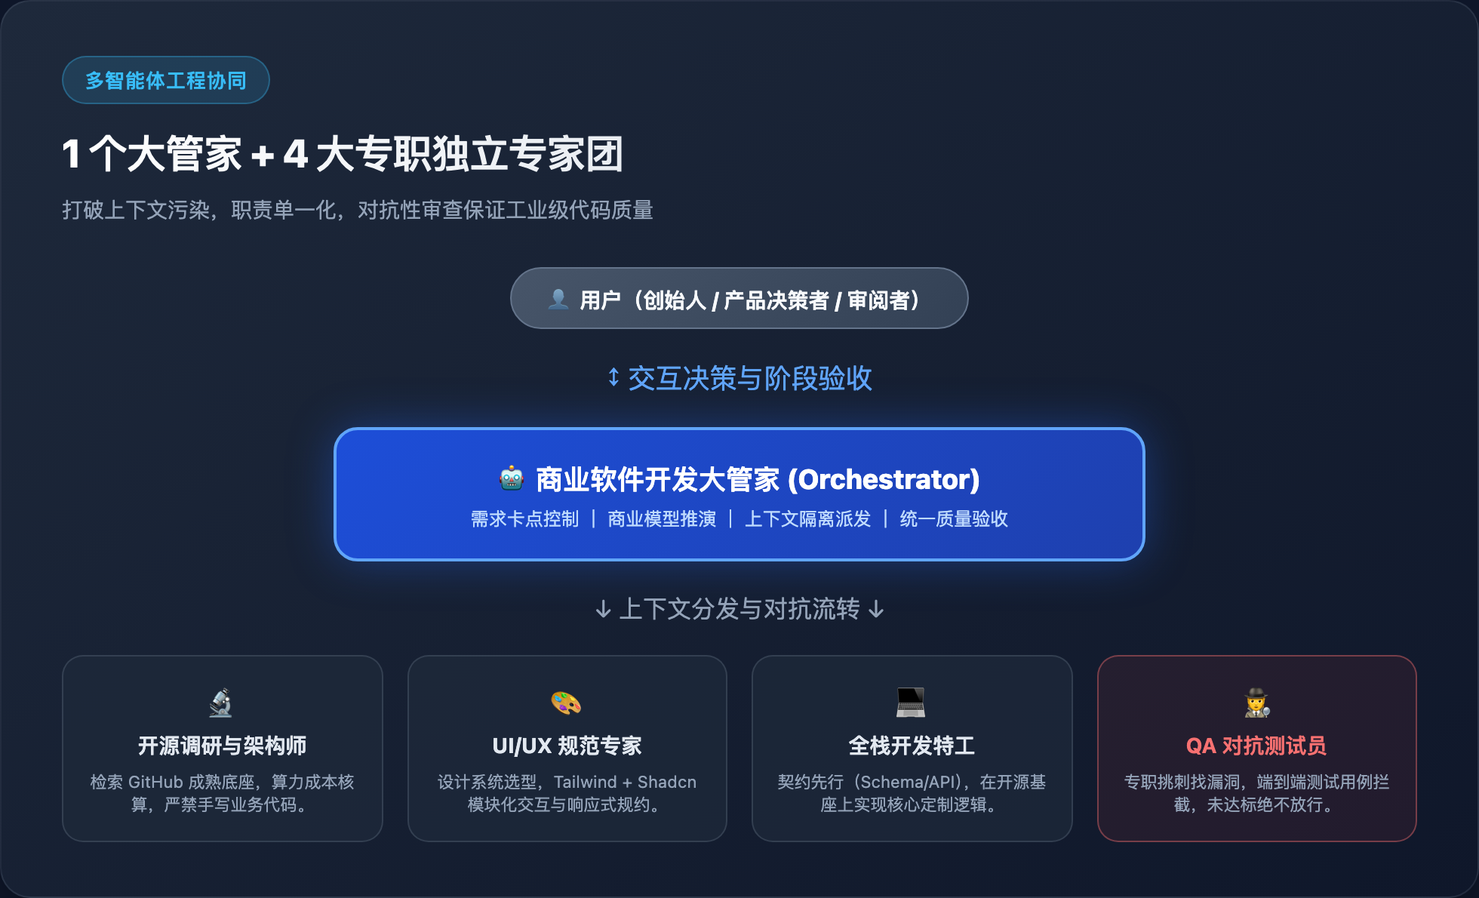
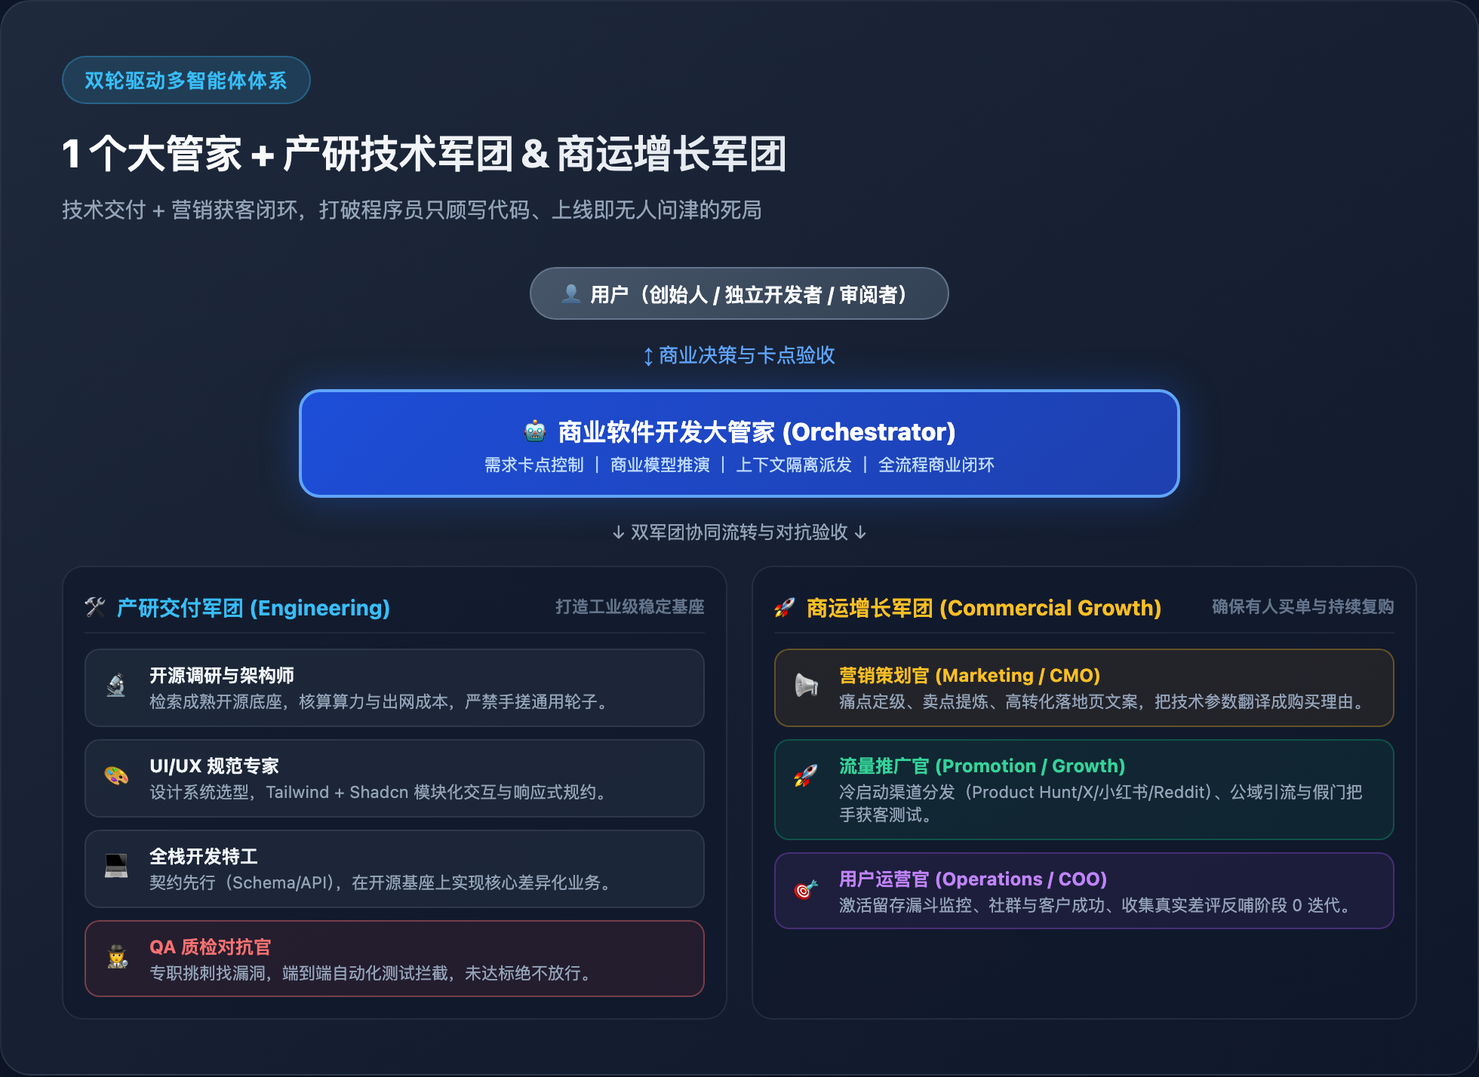
feat: incorporate marketing, promotion, and operations commercial growth engine into multi-agent architecture and WeChat article

Changed region(s): [[0.0311, 0.0311, 0.9337, 0.9017], [0.0622, 0.7773, 0.4668, 0.9328], [0.0, 0.995, 0.9959, 1.0]]

diff --git a/scripts/generate_article_diagrams.py b/scripts/generate_article_diagrams.py
@@ -295,14 +295,14 @@ DIAGRAMS = {
     display: flex;
     flex-direction: column;
     align-items: center;
-    gap: 20px;
+    gap: 14px;
   }}
   .user-node {{
     background: linear-gradient(135deg, #475569 0%, #334155 100%);
     border: 1px solid #64748b;
     border-radius: 9999px;
-    padding: 8px 24px;
-    font-size: 14px;
+    padding: 6px 20px;
+    font-size: 13px;
     font-weight: 700;
     color: #f8fafc;
     display: flex;
@@ -312,71 +312,148 @@ DIAGRAMS = {
   .orchestrator-node {{
     background: linear-gradient(135deg, #1d4ed8 0%, #1e40af 100%);
     border: 2px solid #60a5fa;
-    border-radius: 16px;
-    padding: 18px 36px;
+    border-radius: 14px;
+    padding: 12px 28px;
     text-align: center;
-    box-shadow: 0 0 30px rgba(37, 99, 235, 0.4);
-    width: 60%;
+    box-shadow: 0 0 25px rgba(37, 99, 235, 0.35);
+    width: 65%;
   }}
-  .subagents-grid {{
+  .dual-engine-grid {{
     display: grid;
-    grid-template-columns: repeat(4, 1fr);
+    grid-template-columns: 1fr 1fr;
     gap: 16px;
     width: 100%;
   }}
-  .subagent-card {{
-    background: rgba(30, 41, 59, 0.7);
-    border: 1px solid rgba(148, 163, 184, 0.2);
+  .engine-column {{
+    background: rgba(15, 23, 42, 0.6);
+    border: 1px solid rgba(148, 163, 184, 0.15);
     border-radius: 14px;
-    padding: 16px 14px;
-    text-align: center;
+    padding: 14px;
   }}
-  .subagent-role {{
+  .engine-header {{
     font-size: 14px;
     font-weight: 700;
-    color: #e2e8f0;
-    margin-bottom: 6px;
+    margin-bottom: 10px;
+    display: flex;
+    align-items: center;
+    justify-content: space-between;
+    padding-bottom: 6px;
+    border-bottom: 1px solid rgba(148, 163, 184, 0.1);
   }}
-  .subagent-task {{
+  .engine-header.tech {{ color: #38bdf8; }}
+  .engine-header.biz {{ color: #fbbf24; }}
+  .cards-list {{
+    display: flex;
+    flex-direction: column;
+    gap: 8px;
+  }}
+  .agent-card {{
+    background: rgba(30, 41, 59, 0.8);
+    border: 1px solid rgba(148, 163, 184, 0.15);
+    border-radius: 10px;
+    padding: 8px 12px;
+    display: flex;
+    align-items: flex-start;
+    gap: 10px;
+  }}
+  .agent-icon {{
+    font-size: 16px;
+    margin-top: 1px;
+  }}
+  .agent-name {{
+    font-size: 12px;
+    font-weight: 700;
+    color: #f1f5f9;
+    margin-bottom: 2px;
+  }}
+  .agent-task {{
     font-size: 11px;
     color: #94a3b8;
-    line-height: 1.4;
+    line-height: 1.35;
   }}
 </style>
 </head>
 <body>
   <div class="card-container">
-    <div class="header-badge">多智能体工程协同</div>
-    <div class="main-title">1 个大管家 + 4 大专职独立专家团</div>
-    <div class="subtitle">打破上下文污染，职责单一化，对抗性审查保证工业级代码质量</div>
+    <div class="header-badge">双轮驱动多智能体体系</div>
+    <div class="main-title">1 个大管家 + 产研技术军团 & 商运增长军团</div>
+    <div class="subtitle">技术交付 + 营销获客闭环，打破程序员只顾写代码、上线即无人问津的死局</div>
     <div class="topo-wrapper">
-      <div class="user-node">👤 用户（创始人 / 产品决策者 / 审阅者）</div>
-      <div style="color: #60a5fa; font-size: 18px;">↕ 交互决策与阶段验收</div>
+      <div class="user-node">👤 用户（创始人 / 独立开发者 / 审阅者）</div>
+      <div style="color: #60a5fa; font-size: 13px;">↕ 商业决策与卡点验收</div>
       <div class="orchestrator-node">
-        <div style="font-size: 18px; font-weight: 800; color: #fff;">🤖 商业软件开发大管家 (Orchestrator)</div>
-        <div style="font-size: 12px; color: #bfdbfe; margin-top: 4px;">需求卡点控制 ｜ 商业模型推演 ｜ 上下文隔离派发 ｜ 统一质量验收</div>
+        <div style="font-size: 16px; font-weight: 800; color: #fff;">🤖 商业软件开发大管家 (Orchestrator)</div>
+        <div style="font-size: 11px; color: #bfdbfe; margin-top: 2px;">需求卡点控制 ｜ 商业模型推演 ｜ 上下文隔离派发 ｜ 全流程商业闭环</div>
       </div>
-      <div style="color: #94a3b8; font-size: 16px;">↓ 上下文分发与对抗流转 ↓</div>
-      <div class="subagents-grid">
-        <div class="subagent-card">
-          <div style="font-size: 20px; margin-bottom: 4px;">🔬</div>
-          <div class="subagent-role">开源调研与架构师</div>
-          <div class="subagent-task">检索 GitHub 成熟底座，算力成本核算，严禁手写业务代码。</div>
+      <div style="color: #94a3b8; font-size: 12px;">↓ 双军团协同流转与对抗验收 ↓</div>
+      <div class="dual-engine-grid">
+        <!-- 产研交付军团 -->
+        <div class="engine-column">
+          <div class="engine-header tech">
+            <span>🛠 产研交付军团 (Engineering)</span>
+            <span style="font-size: 11px; color: #64748b;">打造工业级稳定基座</span>
+          </div>
+          <div class="cards-list">
+            <div class="agent-card">
+              <span class="agent-icon">🔬</span>
+              <div>
+                <div class="agent-name">开源调研与架构师</div>
+                <div class="agent-task">检索成熟开源底座，核算算力与出网成本，严禁手搓通用轮子。</div>
+              </div>
+            </div>
+            <div class="agent-card">
+              <span class="agent-icon">🎨</span>
+              <div>
+                <div class="agent-name">UI/UX 规范专家</div>
+                <div class="agent-task">设计系统选型，Tailwind + Shadcn 模块化交互与响应式规约。</div>
+              </div>
+            </div>
+            <div class="agent-card">
+              <span class="agent-icon">💻</span>
+              <div>
+                <div class="agent-name">全栈开发特工</div>
+                <div class="agent-task">契约先行（Schema/API），在开源基座上实现核心差异化业务。</div>
+              </div>
+            </div>
+            <div class="agent-card" style="border-color: rgba(248, 113, 113, 0.4); background: rgba(239, 68, 68, 0.08);">
+              <span class="agent-icon">🕵</span>
+              <div>
+                <div class="agent-name" style="color: #f87171;">QA 质检对抗官</div>
+                <div class="agent-task">专职挑刺找漏洞，端到端自动化测试拦截，未达标绝不放行。</div>
+              </div>
+            </div>
+          </div>
         </div>
-        <div class="subagent-card">
-          <div style="font-size: 20px; margin-bottom: 4px;">🎨</div>
-          <div class="subagent-role">UI/UX 规范专家</div>
-          <div class="subagent-task">设计系统选型，Tailwind + Shadcn 模块化交互与响应式规约。</div>
-        </div>
-        <div class="subagent-card">
-          <div style="font-size: 20px; margin-bottom: 4px;">💻</div>
-          <div class="subagent-role">全栈开发特工</div>
-          <div class="subagent-task">契约先行（Schema/API），在开源基座上实现核心定制逻辑。</div>
-        </div>
-        <div class="subagent-card" style="border-color: rgba(248, 113, 113, 0.4); background: rgba(239, 68, 68, 0.08);">
-          <div style="font-size: 20px; margin-bottom: 4px;">🕵</div>
-          <div class="subagent-role" style="color: #f87171;">QA 对抗测试员</div>
-          <div class="subagent-task">专职挑刺找漏洞，端到端测试用例拦截，未达标绝不放行。</div>
+
+        <!-- 商运增长军团 -->
+        <div class="engine-column">
+          <div class="engine-header biz">
+            <span>🚀 商运增长军团 (Commercial Growth)</span>
+            <span style="font-size: 11px; color: #64748b;">确保有人买单与持续复购</span>
+          </div>
+          <div class="cards-list">
+            <div class="agent-card" style="border-color: rgba(251, 191, 36, 0.3); background: rgba(245, 158, 11, 0.08);">
+              <span class="agent-icon">📢</span>
+              <div>
+                <div class="agent-name" style="color: #fbbf24;">营销策划官 (Marketing / CMO)</div>
+                <div class="agent-task">痛点定级、卖点提炼、高转化落地页文案，把技术参数翻译成购买理由。</div>
+              </div>
+            </div>
+            <div class="agent-card" style="border-color: rgba(16, 185, 129, 0.3); background: rgba(16, 185, 129, 0.08);">
+              <span class="agent-icon">🚀</span>
+              <div>
+                <div class="agent-name" style="color: #34d399;">流量推广官 (Promotion / Growth)</div>
+                <div class="agent-task">冷启动渠道分发（Product Hunt/X/小红书/Reddit）、公域引流与假门把手获客测试。</div>
+              </div>
+            </div>
+            <div class="agent-card" style="border-color: rgba(168, 85, 247, 0.3); background: rgba(168, 85, 247, 0.08);">
+              <span class="agent-icon">🎯</span>
+              <div>
+                <div class="agent-name" style="color: #c084fc;">用户运营官 (Operations / COO)</div>
+                <div class="agent-task">激活留存漏斗监控、社群与客户成功、收集真实差评反哺阶段 0 迭代。</div>
+              </div>
+            </div>
+          </div>
         </div>
       </div>
     </div>

diff --git a/references/agent-skill-routing.md b/references/agent-skill-routing.md
@@ -4,16 +4,26 @@
 
 在规划推进到特定阶段时，大管家必须参考本路由表，**主动建议**用户去安装或调用 GitHub/社区上更专业的细分 Skill，以实现多智能体协同 (Multi-Agent Collaboration)。
 
-## 1. 各阶段专业 Skill 推荐映射表
+## 1. 各阶段专业 Skill 推荐映射表 (双轮驱动：产研技术 + 商运增长)
+
+### 🛠 产研交付军团 (Engineering Pod)
 
 | 规划阶段 | 需要深度的专业领域 | 建议关联/调用的外部专业 Skill (示例名) | 大管家的协同指令话术 |
 | :--- | :--- | :--- | :--- |
 | **阶段 2 (PRD与原型)** | 需求梳理、交互逻辑、低保真原型图绘制 | `product-manager-pro` / `wireframe-designer` | “商业模式已定。为了产出更严谨的原型图和需求文档，我建议您现在挂载 `product-manager-pro` Skill，让它帮您把功能点细化为可视化的页面流转图。” |
-| **阶段 3 (架构选型)** | 系统设计、微服务拆解、数据库选型 | `architecture-designer` | “关于具体的系统架构设计，我建议您现在调用 `architecture-designer` Skill，让它为您绘制详细的系统拓扑和 ADR (架构决策记录)。” |
-| **阶段 3 (契约与设计)** | UI/UX 设计、组件规范、Tailwind 落地 | `ui-ux-pro-max` / `frontend-design` | “我已经帮您确定了产品功能。接下来，建议您使用 `ui-ux-pro-max` Skill，让这位设计专家来帮您输出具体的 Tailwind 组件规范和交互流程。” |
-| **阶段 3 (安全合规)** | 安全审计、防注入、权限漏洞扫描 | `security-auditor` / `clawdefender` | “在确定了数据模型后，为了防止未来的 AI 越权或 Prompt 注入，建议您通过 `security-auditor` 进行一次前置安全审查。” |
-| **阶段 5 (落地拆解)** | 极简代码生成、避免过度设计 | `ponytail` (Lazy/Minimalist Coder) | “规划已完成。在正式编码时，如果您希望代码极其精简、不造轮子，强烈建议您在开发全程开启 `ponytail` Skill。” |
-| **阶段 5 (代码审查)** | Code Review, 质量保证 | `TRAE-code-review` / `ponytail-review` | “在拆解的工单开发完成后，请务必让 `TRAE-code-review` 介入进行合并前的质量把控。” |
+| **阶段 3 (架构选型)** | 系统设计、微服务拆解、数据库选型、算力成本核算 | `architecture-designer` / `tech-stack-decision-matrix` | “关于具体的系统架构设计与成本防破产防线，建议您调用 `architecture-designer` 或 `tech-stack-decision-matrix`，绘制详细的系统拓扑和 ADR 架构决策。” |
+| **阶段 4 (契约与设计)** | UI/UX 设计、组件规范、Tailwind 落地 | `ui-ux-pro-max` / `frontend-design` | “我已经帮您确定了产品功能。接下来，建议您使用 `ui-ux-pro-max` Skill，让这位设计专家来帮您输出具体的 Tailwind 组件规范和交互流程。” |
+| **阶段 4 (安全合规)** | 安全审计、防注入、权限漏洞扫描、GDPR | `security-auditor` / `clawdefender` | “在确定了数据模型后，为了防止未来的 AI 越权或 Prompt 注入，建议您通过 `security-auditor` 进行一次前置安全审查。” |
+| **阶段 6 (极简编码)** | 极简代码生成、避免过度设计 | `ponytail` (Lazy/Minimalist Coder) | “规划已完成。在正式编码时，如果您希望代码极其精简、不造轮子，强烈建议您在开发全程开启 `ponytail` Skill。” |
+| **阶段 6 (代码审查)** | Code Review, 对抗性测试质量保证 | `TRAE-code-review` / `ponytail-review` | “在拆解的工单开发完成后，请务必让质检对抗角色介入进行合并前的质量把控与测试验收。” |
+
+### 🚀 商运增长军团 (Commercial & Growth Pod)
+
+| 业务环节 | 专职角色 | 建议关联/调用的外部专业 Skill (示例名) | 大管家的协同指令话术 |
+| :--- | :--- | :--- | :--- |
+| **阶段 0/1 (定位与包装)** | **营销策划官 (Marketing / CMO)** | `marketing-strategist` / `copywriting-master` / `landing-page-optimizer` | “产品必须能击中买单欲望。建议挂载 `marketing-strategist` 提炼着火痛点话术，输出高转化率 Landing Page 文案与差异化定位，绝不自嗨。” |
+| **阶段 0/6 (渠道与分发)** | **流量推广官 (Promotion / Growth)** | `growth-hacker` / `social-media-distributor` / `seo-geo-ranker` | “写代码前测转化，写完代码引爆公域。建议调用 `growth-hacker` 制定 Product Hunt、Twitter/X、Reddit、小红书冷启动打法与假门把手获客测试。” |
+| **阶段 6/上线后 (留存与反馈)** | **用户运营官 (Operations / COO)** | `community-builder` / `retention-optimizer` / `customer-success-pro` | “上线只是起点。建议接入 `community-builder` 搭建私域与客户成功通道，监控激活留存漏斗，将用户的真实吐槽与差评闭环反哺回阶段 0 迭代。” |
 
 ## 2. 路由与移交原则 (Handoff Protocol)
 

diff --git a/docs/wechat_article_commercial_loop.md b/docs/wechat_article_commercial_loop.md
@@ -90,16 +90,28 @@
 
 ---
 
-## 四、多智能体破局：1 个大管家 + 4 大专职独立专家团
+## 四、多智能体破局：不仅要会写代码，更要卖得出去！补齐【营销、推广、运营】增长闭环
 
-面对复杂的工业级项目，单一 Agent 的上下文必然枯竭。**唯一的解法是分工协作：大管家（调度）+ 专业子智能体团队。**
+很多独立开发者与技术团队最大的误区，就是以为把“架构师、前端、后端、测试”凑齐就万事大吉了。以为只要把代码推上服务器，用户就会蜂拥而至。
 
-![1个大管家 + 4大专职独立专家团](./images/03_multi_agent_orchestration.png)
+现实是极其残酷的：**90% 的独立开发破产，根本不是因为代码写得烂，而是根本没有人知道你的产品！代码只占商业成功的 30%，剩下的 70% 全在营销、推广与运营。**
 
-### 多智能体带来的降维优势：
-* **上下文纯净度（100% 专注）**：每个子 AI 只看属于自己的上下文，彻底根除注意力稀释；
-* **对抗性质量防线**：QA 角色专门用来挑刺、跑单元测试，不达标绝不交付给大管家，彻底终结残次品流向用户的尴尬局面；
-* **用户角色升维**：用户不再是到处灭火的“改 Bug 工具人”，而是审阅关键里程碑的“技术投资人”。
+因此，我们的多智能体架构不再局限于狭隘的“技术写代码”，而是构建了一套**双轮驱动的完整商业军团**：
+
+![双轮驱动多智能体体系](./images/03_multi_agent_orchestration.png)
+
+### 1. 🛠 产研交付军团 (Engineering Pod)
+* **开源调研与架构师**：检索 GitHub 成熟底座，核算算力与带宽成本，严禁手写通用业务；
+* **UI/UX 规范专家**：设计系统选型，Tailwind + Shadcn 模块化交互与响应式规约；
+* **全栈开发特工**：契约先行（Schema/API），在开源基座上实现核心定制逻辑；
+* **QA 质检对抗官**：专职挑刺找漏洞，端到端自动化测试拦截，未达标绝不放行。
+
+### 2. 🚀 商运增长军团 (Commercial & Growth Pod)
+* **📢 营销策划官 (Marketing / CMO)**：解决“认知与说服”。拒绝把官网写成自嗨的“基于 Rust/Next.js 构建”，而是将技术能力翻译成直击痛点的购买理由（如“3秒智能切片，每天为你省下2小时”），输出高转化率 Landing Page 与定价策略；
+* **🚀 流量推广官 (Promotion / Growth)**：解决“流量与获客”。在写第一行代码前，就制定 Product Hunt、Twitter/X、Reddit、小红书的冷启动投放打法，通过假门把手（Smoke Test）实测真实买单意愿；上线后集中引爆公域流量；
+* **🎯 用户运营官 (Operations / COO)**：解决“留存与 LTV”。搭建社群与客户成功（Customer Success）通道，监控用户从注册、激活到付费的完整漏斗，并将用户的真实吐槽与差评闭环反哺给大管家，驱动下一轮敏捷迭代！
+
+> **“大管家负责总控调度，产研军团保证产品造得又快又稳，商运军团保证产品卖得出去且有人续费。任何一方掉链子，商业飞轮都转不起来。”**
 
 ---
 

diff --git a/docs/ai_development_evolution_and_rationale.md b/docs/ai_development_evolution_and_rationale.md
@@ -77,29 +77,32 @@ flowchart LR
 
 ```mermaid
 flowchart TD
-    User(["👤 用户 (老板 / 投资人)"]) <--> Master["🤖 大管家 (PM / 敏捷教练 / 总调度)"]
+    User(["👤 用户 (创始人 / 投资人 / 审阅者)"]) <--> Master["🤖 商业软件开发大管家 (Orchestrator 总控)"]
 
-    subgraph Team ["专家子智能体 (独立干净的 Context 与沙箱)"]
-        Architect["🔬 开源调研与架构师 (查 GitHub / 算成本 / 严禁写业务代码)"]
-        Designer["🎨 UI/UX 规范专家 (设计系统选型 / 组件排版)"]
-        Coder["💻 全栈开发特工 (基于脚手架进行二开)"]
-        QA["🕵 质检与对抗测试员 (专职挑刺 / 自动化测试 / 拦截缺陷)"]
+    subgraph EngineeringPod ["🛠 产研交付军团 (Engineering Engine)"]
+        Architect["🔬 开源调研与架构师\n(开源基座 / 算力与出网防破产)"]
+        Designer["🎨 UI/UX 规范专家\n(Tailwind+Shadcn / 设计系统)"]
+        Coder["💻 全栈开发特工\n(契约先行 / 开源二次开发)"]
+        QA["🕵 QA 质检对抗官\n(专职挑刺 / 自动化测试拦截)"]
     end
 
-    Master -->|派发调研| Architect
-    Architect -->|交付选型报告| Master
-    Master -->|派发规范| Designer
-    Designer -->|交付设计规范| Master
-    Master -->|派发模块研发| Coder
-    Coder -->|提交代码| QA
-    QA -->|发现问题打回| Coder
-    QA -->|测试通过验收| Master
+    subgraph CommercialPod ["🚀 商运增长军团 (Commercial & Growth Engine)"]
+        Marketing["📢 营销策划官 (CMO)\n(卖点提炼 / 高转化落地页文案)"]
+        Promotion["🚀 流量推广官 (Growth)\n(PH/X/小红书/Reddit 冷启动获客)"]
+        Operations["🎯 用户运营官 (COO)\n(激活留存漏斗 / 社群 / 反馈回流)"]
+    end
+
+    Master -->|统筹派发| EngineeringPod
+    Master -->|统筹派发| CommercialPod
+    EngineeringPod -->|对抗验收交付| Master
+    CommercialPod -->|获客与需求回流| Master
 ```
 
-### 多智能体带来的降维优势：
+### 双轮驱动多智能体的降维优势：
+* **产研与商运两手硬**：彻底扭转“只顾写代码、上线即无人问津”的自嗨陷阱，技术军团管“高质量交付”，商运军团管“有人买单与持续复购”。
 * **上下文纯净度（100% 专注）**：每个子 AI 只看属于自己的上下文，彻底根除注意力稀释。
 * **对抗性质量防线**：QA 角色专门用来挑刺、跑单元测试，不达标绝不交付给大管家，彻底终结残次品流向用户的尴尬局面。
-* **用户角色升维**：用户不再是到处灭火的“改 Bug 工具人”，而是审阅关键里程碑的“技术投资人”。
+* **用户角色升维**：用户不再是到处灭火的“改 Bug 工具人”，而是审阅关键里程碑的“商业战略决策者”。
 
 ---
 

diff --git a/README.md b/README.md
@@ -24,7 +24,7 @@ flowchart LR
 ### 思想演进的四大核心台阶：
 
 1. **从病灶出发（第 1~3 章）**：详细剖析了 AI 天生喜欢在单文件写玩具代码的底层奖励机制（RLHF 造成的即时交差心态与上下文偷懒），以及为什么成熟架构师思维必须基于社区最顶级的开源预制件（Tailwind、shadcn/ui、Prisma、Zod 等）。
-2. **多智能体破局（第 4 章）**：推导了为什么“1 个大管家 + 专职子智能体（架构、研发、QA）”是打破上下文稀释和自我审查放水的唯一工程解法，实现**职责单一、独立沙箱与对抗性测试拦截**。
+2. **多智能体破局（第 4 章）**：推导了“双轮驱动多智能体体系”：由 1 个大管家统控**【产研交付军团】**（架构、UI/UX、研发、QA）与**【商运增长军团】**（营销、推广、运营），不仅打破上下文稀释与自我放水，更补齐了“只顾写代码、上线即无人问津”的商业死穴。
 3. **商业终局升华（第 5~6 章）**：讲透了“标准研发流程只是工具”，必须将 **JTBD（Jobs To Be Done）需求验真**、**假门把手测试（Smoke Test）** 与 **算力/出网防破产红线（Cloudflare R2 零出网、BullMQ 异步队列）** 放在写代码之前。
 4. **可复用的标准化武器库（第 7 章）**：总结了实战手册与具备强约束力的通用规划 Skill，确保每一次项目规划都在商业与技术的双轨安全防线内运行。
 
@@ -33,7 +33,7 @@ flowchart LR
 ## ✨ 核心特性
 
 - **🔘 选择题驱动 (Choice-Driven)**：人类不擅长填空题，但擅长做选择。内置《设计风格字典》与《功能积木库》，直接提供 Plan A / Plan B 供你权衡抉择。
-- **🤖 多智能体协同 (Multi-Agent Routing)**：作为 Orchestrator（统筹者），在设计、架构、安全审计等细分阶段，智能路由并生成“移交上下文”，引导你调用最专业的外部 Skill（如 `ui-ux-pro-max`、`architecture-designer`）。
+- **🤖 多智能体双轮驱动 (Multi-Agent Dual-Engine)**：作为 Orchestrator（统筹者），同时调度【产研军团】（架构/设计/研发/QA对抗测试）与【商运军团】（营销定位/流量推广/社群运营），智能路由并生成“移交上下文”，实现从技术交付到商业获客的完整闭环。
 - **🧭 动态项目策略**：自动识别**全新项目 (Greenfield)**、**二次开发/重构 (Brownfield)** 和 **传统项目 AI 化 (AI Transformation)**，提供如“绞杀者模式”、“Sidecar”等差异化架构方案。
 - **💰 商业防破产机制**：在写代码前强制引入“单位经济学 ($LTV > 3 \times CAC$)”测算，建立零出网费对象存储、异步算力队列与防刷量限流护城河。
 
